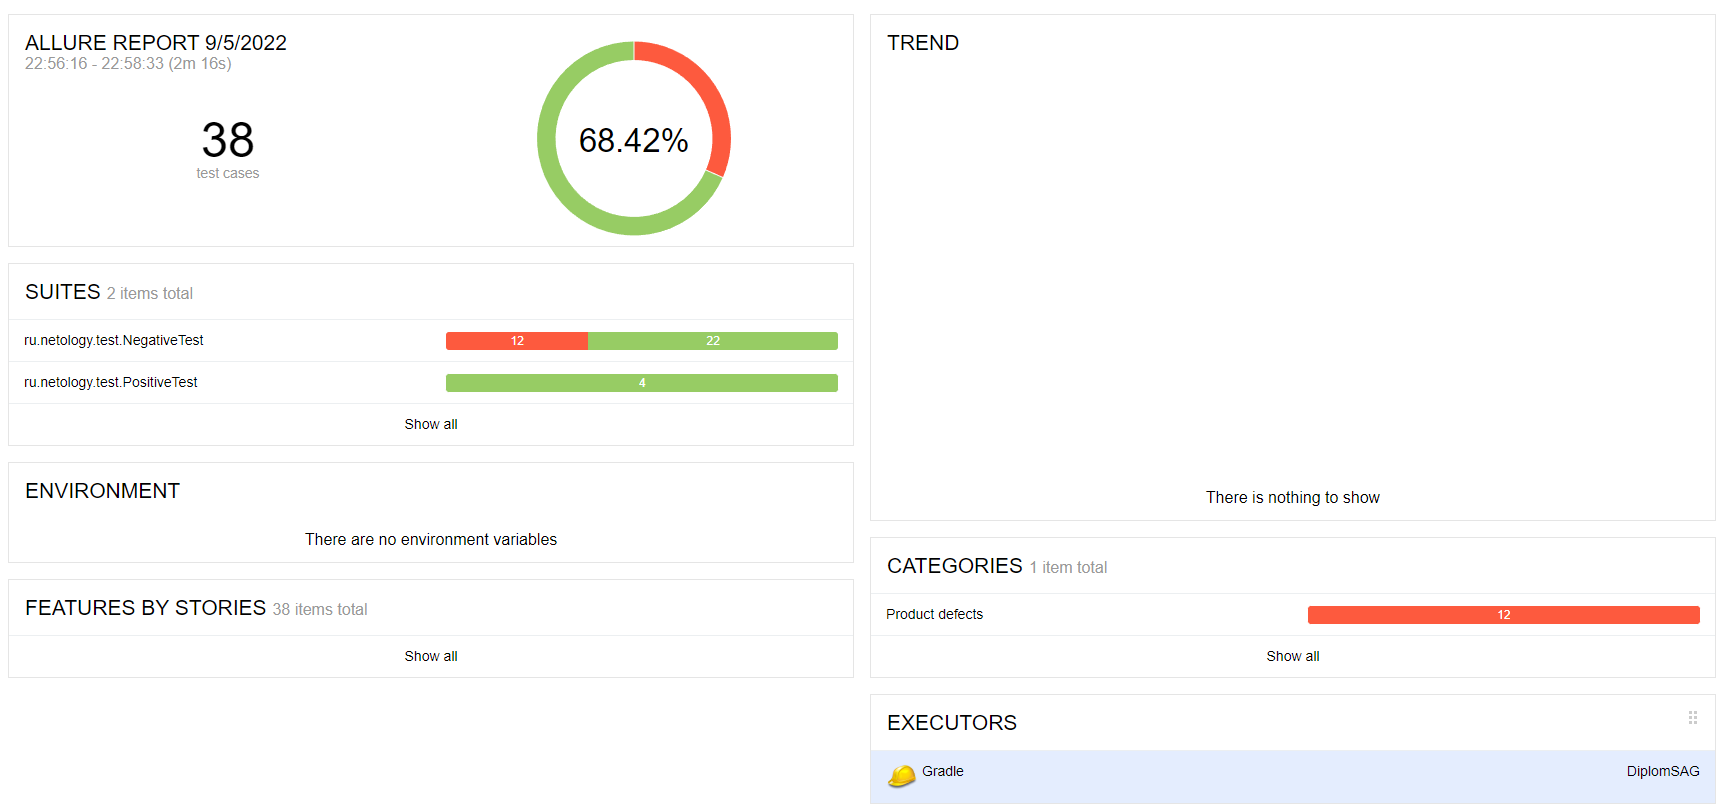
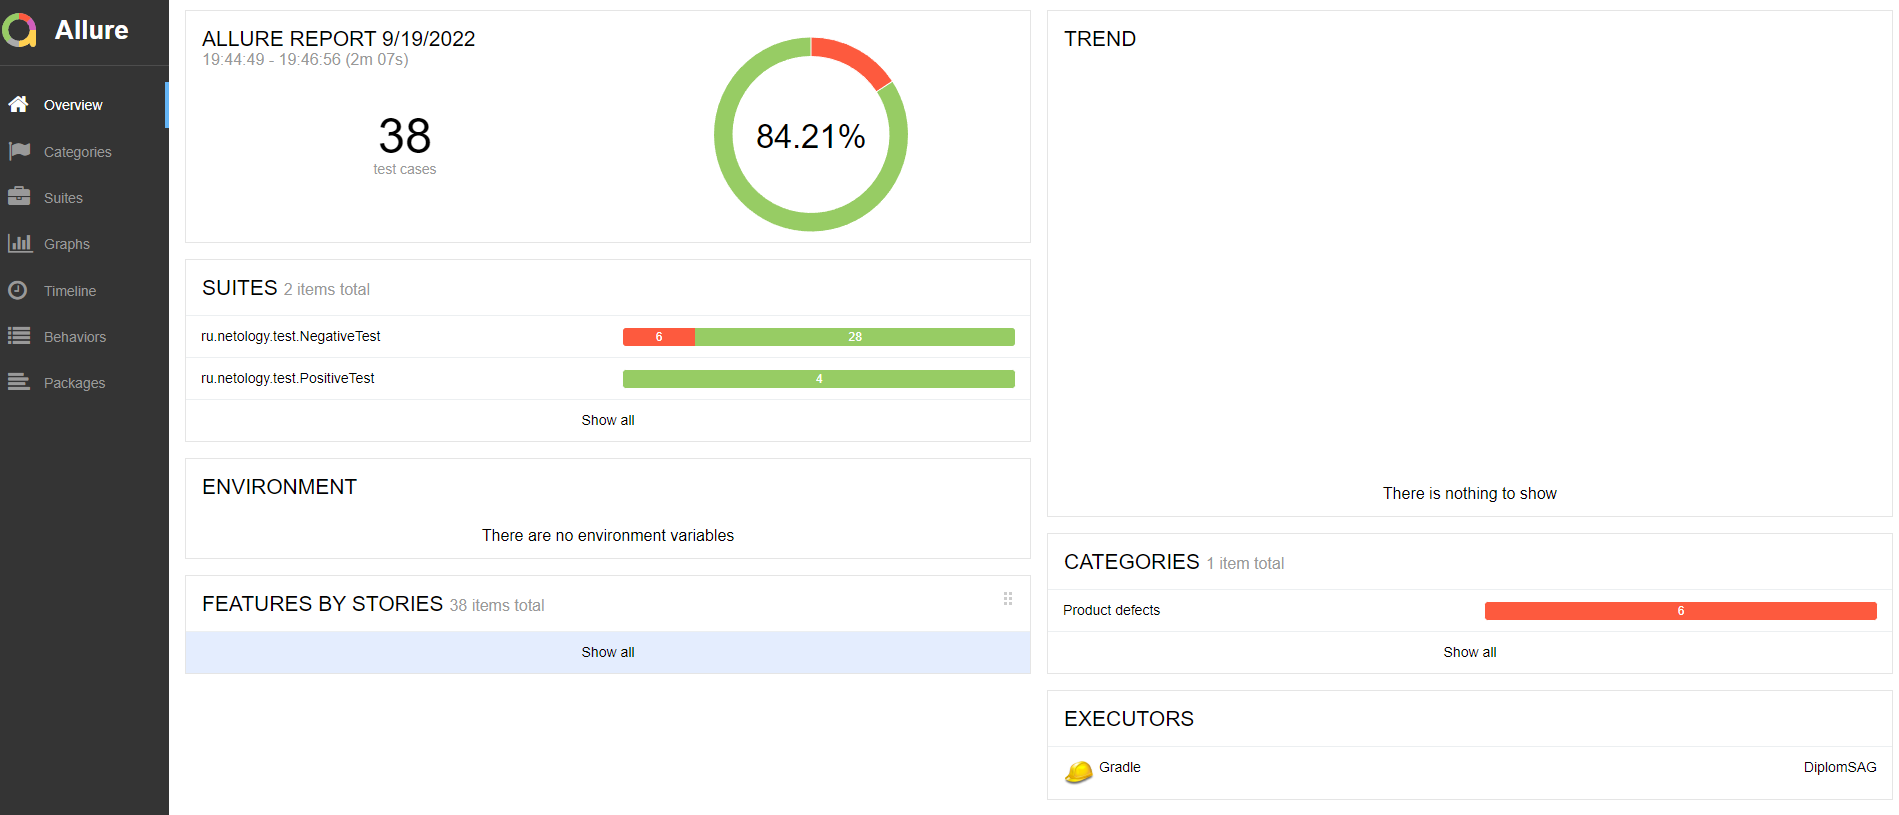
report and test update

diff --git a/src/test/java/ru/netology/test/NegativeTest.java b/src/test/java/ru/netology/test/NegativeTest.java
@@ -201,7 +201,7 @@ public class NegativeTest {
         var payCard = tourPage.payCard();
         var invalidCard = DataHelper.getExpiredMonth();
         payCard.enterCardData(invalidCard);
-        payCard.expiredPayCardMonth();
+        payCard.invalidDate();
     }
 
     @DisplayName("Credit - Expired month.")
@@ -211,7 +211,7 @@ public class NegativeTest {
         var buyCredit = tourPage.buyCredit();
         var invalidCard = DataHelper.getExpiredMonth();
         buyCredit.enterCreditCardData(invalidCard);
-        buyCredit.expiredCreditCardMonth();
+        buyCredit.invalidDate();
     }
 
     @DisplayName("Card - Invalid card number.")
@@ -241,7 +241,7 @@ public class NegativeTest {
         var payCard = tourPage.payCard();
         var invalidCard = DataHelper.getWrongYear();
         payCard.enterCardData(invalidCard);
-        payCard.invalidCardFormat();
+        payCard.invalidDate();
     }
 
     @DisplayName("Credit - Wrong year.")
@@ -251,7 +251,7 @@ public class NegativeTest {
         var buyCredit = tourPage.buyCredit();
         var invalidCard = DataHelper.getWrongYear();
         buyCredit.enterCreditCardData(invalidCard);
-        buyCredit.invalidCreditFormat();
+        buyCredit.invalidDate();
     }
 
     @DisplayName("Card - Wrong month.")
@@ -261,7 +261,7 @@ public class NegativeTest {
         var payCard = tourPage.payCard();
         var invalidCard = DataHelper.getWrongMonth();
         payCard.enterCardData(invalidCard);
-        payCard.invalidCardFormat();
+        payCard.invalidDate();
     }
 
     @DisplayName("Credit - Wrong month.")
@@ -271,7 +271,7 @@ public class NegativeTest {
         var buyCredit = tourPage.buyCredit();
         var invalidCard = DataHelper.getWrongMonth();
         buyCredit.enterCreditCardData(invalidCard);
-        buyCredit.invalidCreditFormat();
+        buyCredit.invalidDate();
     }
 
     @DisplayName("Сard - Numeric holder's name.")
@@ -321,7 +321,7 @@ public class NegativeTest {
         var payCard = tourPage.payCard();
         var invalidCard = DataHelper.getZeroCard();
         payCard.enterCardData(invalidCard);
-        payCard.invalidCardFormat();
+        payCard.notSuccessfulCardPayment();
     }
 
     @DisplayName("Credit - Zero card number.")
@@ -331,7 +331,7 @@ public class NegativeTest {
         var buyCredit = tourPage.buyCredit();
         var invalidCard = DataHelper.getZeroCard();
         buyCredit.enterCreditCardData(invalidCard);
-        buyCredit.invalidCreditFormat();
+        buyCredit.notSuccessfulCreditCardPayment();
     }
 
     @DisplayName("Card - Zero month.")
@@ -341,7 +341,7 @@ public class NegativeTest {
         var payCard = tourPage.payCard();
         var invalidCard = DataHelper.getZeroMonth();
         payCard.enterCardData(invalidCard);
-        payCard.expiredPayCardMonth();
+        payCard.invalidDate();
     }
 
     @DisplayName("Credit- Zero month.")
@@ -351,7 +351,7 @@ public class NegativeTest {
         var buyCredit = tourPage.buyCredit();
         var invalidCard = DataHelper.getZeroMonth();
         buyCredit.enterCreditCardData(invalidCard);
-        buyCredit.expiredCreditCardMonth();
+        buyCredit.invalidDate();
     }
 
     @DisplayName("Card - Zero CVV")

diff --git a/src/test/java/ru/netology/page/CreditPage.java b/src/test/java/ru/netology/page/CreditPage.java
@@ -26,7 +26,7 @@ public class CreditPage extends TourPage {
     private final SelenideElement invalidFormatError = $(withText("Неверный формат"));
     private final SelenideElement requiredToFillIn = $(withText("Поле обязательно для заполнения"));
     private final SelenideElement expiredYearError = $(withText("Истёк срок действия карты"));
-    private final SelenideElement expiredMonthError = $(withText("Неверно указан срок действия карты"));
+    private final SelenideElement invalidDateError = $(withText("Неверно указан срок действия карты"));
 
     public void enterCreditCardData(DataHelper.CardInformation cardInformation) {
         cardNumberField.setValue(cardInformation.getCardNumber());
@@ -57,7 +57,7 @@ public class CreditPage extends TourPage {
         expiredYearError.shouldBe(visible);
     }
 
-    public void expiredCreditCardMonth() {
-        expiredMonthError.shouldBe(visible);
+    public void invalidDate() {
+        invalidDateError.shouldBe(visible);
     }
 }

diff --git a/src/test/java/ru/netology/page/CardPage.java b/src/test/java/ru/netology/page/CardPage.java
@@ -26,7 +26,7 @@ public class CardPage extends TourPage {
     private final SelenideElement invalidFormatError = $(withText("Неверный формат"));
     private final SelenideElement requiredToFillIn = $(withText("Поле обязательно для заполнения"));
     private final SelenideElement expiredYearError = $(withText("Истёк срок действия карты"));
-    private final SelenideElement expiredMonthError = $(withText("Неверно указан срок действия карты"));
+    private final SelenideElement invalidDateError = $(withText("Неверно указан срок действия карты"));
 
     public void enterCardData(DataHelper.CardInformation cardInformation) {
         cardNumberField.setValue(cardInformation.getCardNumber());
@@ -57,7 +57,7 @@ public class CardPage extends TourPage {
         expiredYearError.shouldBe(visible);
     }
 
-    public void expiredPayCardMonth() {
-        expiredMonthError.shouldBe(visible);
+    public void invalidDate() {
+        invalidDateError.shouldBe(visible);
     }
 }

diff --git a/src/test/java/ru/netology/data/DataHelper.java b/src/test/java/ru/netology/data/DataHelper.java
@@ -176,7 +176,7 @@ public class DataHelper {
                 cardNumber.getApprovedCardNumber(),
                 dataGenerator.shiftYear(5).getYear(),
                 dataGenerator.shiftMonth(2).getMonth(),
-                enOption.lordOfTheRings().character(),
+                faker.name().fullName(),
                 "000");
     }
 

diff --git a/src/test/java/ru/netology/data/DataGenerator.java b/src/test/java/ru/netology/data/DataGenerator.java
@@ -18,7 +18,7 @@ public class DataGenerator {
     }
 
     public Year wrongYear() {
-        return new Year(Integer.toString(faker.number().numberBetween(100, 999)));
+        return new Year(Integer.toString(faker.number().numberBetween(28, 99)));
     }
 
     public Month shiftMonth(int numberOfMonths) {

diff --git a/documents/Report.md b/documents/Report.md
@@ -20,7 +20,7 @@
 - 4 позитивных (по 2 для каждого способа оплаты)
 - 34 негативных (по 2 для каждого способа оплаты). 
 
-Соотношение успешных/неуспешных тестов: 26/12
+Соотношение успешных/неуспешных тестов: 32/6
 
 ![AllureReport](https://github.com/Gendalf21/DiplomSAG/blob/master/documents/Screenshot.PNG)
 
